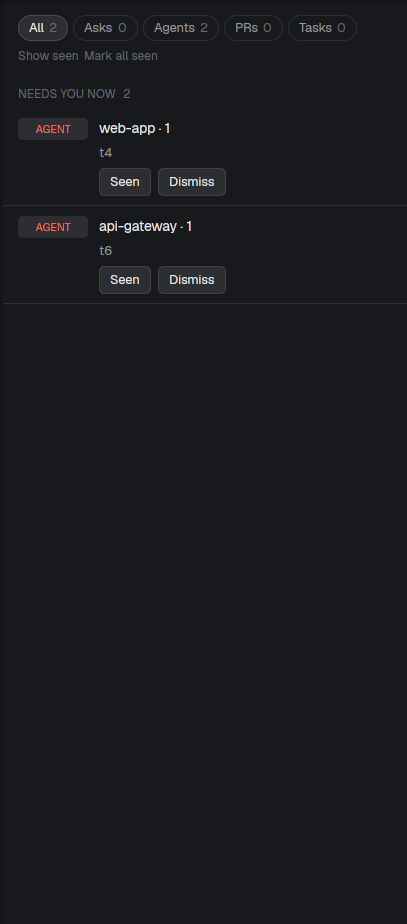
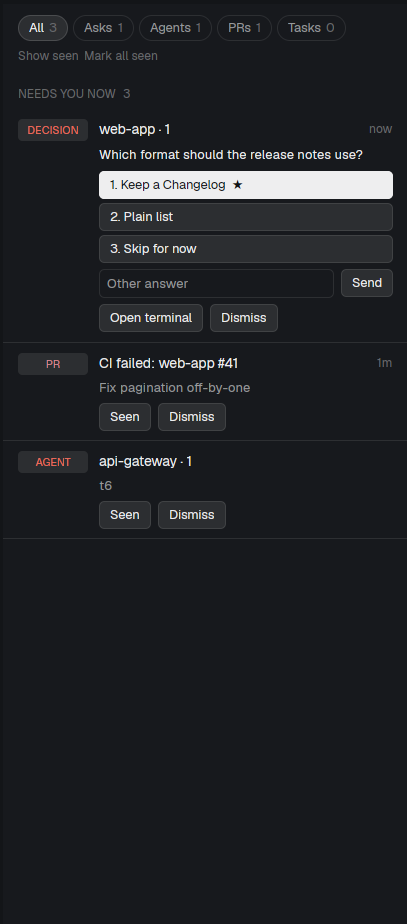
feat(demo): inbox preview with a model ask and PR notifications; fake agents can show a question dialog

diff --git a/tools/demo/stub_forge.py b/tools/demo/stub_forge.py
@@ -21,9 +21,15 @@ MOCK = """    del env
             "additions": add, "deletions": dele, "changedFiles": files,
         }
 
+    # The first sync is quiet; later ones flip PR #41 to failing CI and #42 to a new approval, which raises
+    # the PR notifications the Inbox lists.
+    calls = Path.home() / ".forge-demo-calls"
+    n = int(calls.read_text()) if calls.exists() else 0
+    calls.write_text(str(n + 1))
+    later = n >= 1
     return [
-        _pr(42, "Add greeting endpoint", "acme-api", "feat/greeting", "success", "approved", True, appr=2, hrs=2),
-        _pr(41, "Fix pagination off-by-one", "web-app", "fix/pagination", "failure", "changes_requested", True, hrs=5),
+        _pr(42, "Add greeting endpoint", "acme-api", "feat/greeting", "success", "approved" if later else "none", True, appr=2 if later else 0, hrs=2),
+        _pr(41, "Fix pagination off-by-one", "web-app", "fix/pagination", "failure" if later else "pending", "changes_requested", True, hrs=5),
         _pr(40, "Draft: dark mode tokens", "web-app", "feat/dark-mode", "pending", "none", True, draft=True, hrs=9),
         _pr(39, "Upgrade dependencies", "docs-site", "chore/deps", "success", "none", False, hrs=20, files=2),
     ], None
